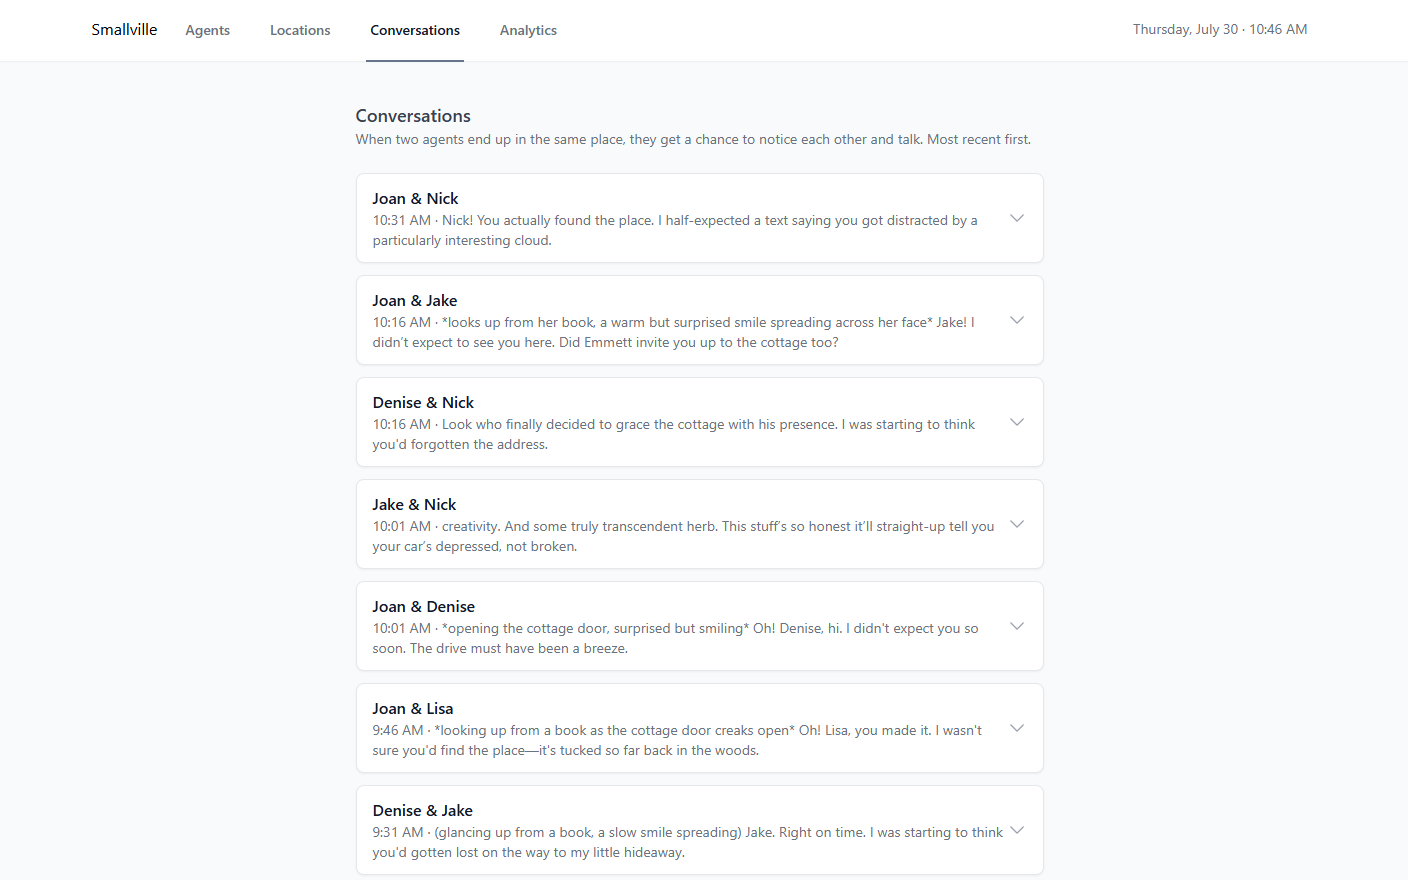
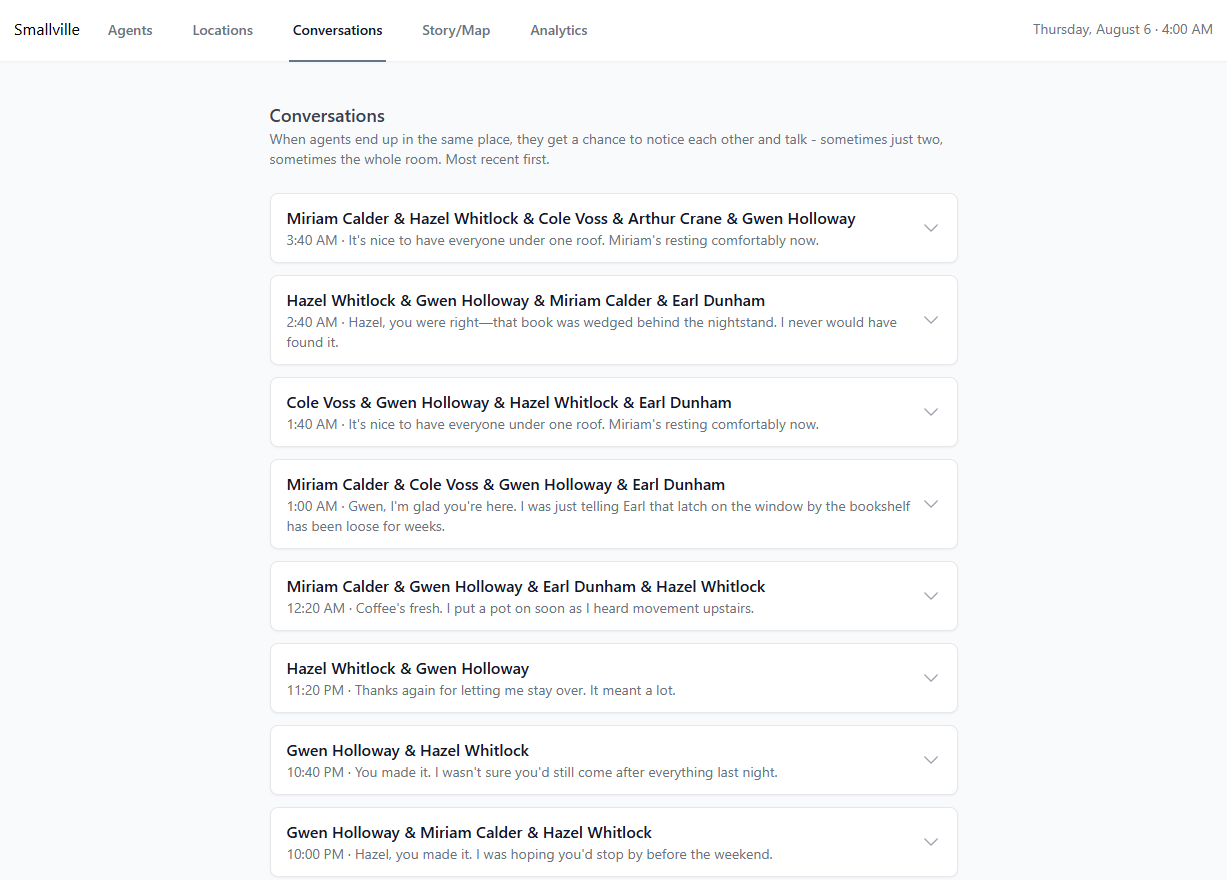
Rewrite README for the hardening-pass changes and refresh screenshots
Documents the knowledge model, concerns system, character creation
dial, relationship-driven conversations, persistence, cost visibility,
and the fixed 20-minute timestep. Replaces the two-year-old dashboard
screenshot and adds the town map, locations, and analytics panels.

diff --git a/README.md b/README.md
@@ -4,45 +4,143 @@
 
 Generative agents are virtual characters that store memories and dynamically react to their environment. Using an LLM, agents observe their surroundings, form and recall memories, make plans, and react to changes in the world around them — instead of following hand-written dialogue trees and schedules.
 
-This is a fork of [nickm980/smallville](https://github.com/nickm980/smallville), a Java implementation of the technique from the paper [_Generative Agents: Interactive Simulacra of Human Behavior_](https://arxiv.org/pdf/2304.03442.pdf). This fork keeps the original simulation engine but changes the LLM backend and replaces the tooling around it with a full interactive dashboard, so you can actually watch and steer a town of agents instead of only driving them through the HTTP API.
+This project has three layers of history worth knowing. It started as the Stanford/Google paper [_Generative Agents: Interactive Simulacra of Human Behavior_](https://arxiv.org/pdf/2304.03442.pdf) (2023) — agents with a memory stream, planning, and reflection, scored on recency, importance, and relevance. [nickm980/smallville](https://github.com/nickm980/smallville) is a faithful Java implementation of that architecture, built as a library other games could drive over HTTP. This fork retargeted it at DeepSeek and grew a full Next.js dashboard around it — a town map, per-agent diaries, a conversation feed, location images, and a generated "Story So Far" — so you can actually watch and steer a town of agents instead of only driving them through the API. Then a sustained pass went back through the inherited engine and found that several of its load-bearing pieces didn't actually work — not visible from reading the code, only from watching agents — and repaired the simulation's underlying model of what an agent knows, wants, and has actually experienced. See [How agents think](#how-agents-think).
 
 ## Screenshots
 
-| Agents dashboard | Conversations |
+| Agents | Town map |
 | --- | --- |
-| ![Dashboard showing a list of agents with their location, current activity, and emoji, plus simulation controls](docs/screenshots/dashboard.png) | ![Conversations feed showing grouped, timestamped conversations between agents](docs/screenshots/conversations.png) |
+| ![Agents dashboard showing a list of agents with their location, current activity, and emoji, plus simulation controls](docs/screenshots/agents.png) | ![Town map showing every location with a photo and who's currently there](docs/screenshots/town-map.png) |
+
+| Conversations | Locations & objects |
+| --- | --- |
+| ![Conversations feed showing grouped, timestamped conversations between agents, some with more than two participants](docs/screenshots/conversations.png) | ![Locations and objects page for editing the simulation world](docs/screenshots/locations.png) |
+
+| Analytics |
+| --- |
+| ![Analytics panel showing API usage, cost, and per-prompt breakdown](docs/screenshots/analytics.png) |
 
 ## What's different in this fork
 
-**Runs on DeepSeek, not OpenAI.** The server talks to any OpenAI-compatible chat completions endpoint — this fork points it at DeepSeek (`deepseek-v4-pro`) by default, which is cheaper and doesn't require an OpenAI key. Swapping to any other compatible provider (OpenAI, a local model server, etc.) is a two-line change in `config.yaml`.
+**Runs on DeepSeek, not OpenAI**, with reasoning ("thinking") disabled by default — the configured model is a reasoning model, and almost nothing here benefits from the deliberation, which bills as output tokens. Turning it off was the single largest responsiveness improvement of the whole project. The server talks to any OpenAI-compatible chat completions endpoint, so swapping providers is a config change; see [Configuration](#configuration).
 
 **A real dashboard**, built with Next.js, replacing the old static/embedded UI:
 - Create, edit, and delete agents and locations, including nested sub-locations (e.g. `Cottage: Kitchen`)
-- **AI-generated personalities** — click a button when creating an agent and it invents a name plus a set of in-depth characteristics, checking for name collisions with existing agents
-- **Play/pause and speed controls** — start or stop the simulation loop and adjust how many seconds of real time pass between ticks, decoupled from how much simulated time each tick advances (see [Ticks, intervals, and timesteps](#ticks-intervals-and-timesteps) below)
+- **AI-generated personalities**, built from six required traits and an alignment dial (see [Character creation](#character-creation))
+- **A town map** — a visual layout of every location, with a photo and who's currently there, instead of only reading names off a list
+- **Play/pause and speed controls** for the simulation loop (see [Ticks, intervals, and the timestep](#ticks-intervals-and-the-timestep))
 - **Per-agent diaries** — a chronological view of everything an agent has observed, planned, and reflected on
-- **A global conversation feed** — grouped by conversation, paginated, with timestamps in simulated time
-- A live simulated clock (with real weekday/date, not just a time-of-day) visible from every page
+- **A global conversation feed** — grouped by conversation, with more than two participants when the room calls for it
+- **Location images** — attach a photo to any location and see it on the map
+- **A generated "Story So Far"** narrative (see [The story feature](#the-story-feature))
+- **An analytics panel** — token usage and estimated cost, broken down per prompt, with cache hit rate (see [Cost visibility](#cost-visibility))
+- A live simulated clock (real weekday/date, not just a time-of-day) visible from every page
 
-**Proximity-based conversations.** In the original engine, two agents only talk if you explicitly script it. This fork adds a lightweight system where agents who end up in the same location get a chance to notice each other and start a conversation on their own, with a cooldown so the same pair doesn't talk every single tick.
+**Conversations are relationship-driven and knowledge-gated, not a timer.** In the original engine, two agents only talk if you script it; a fixed cooldown was added early in this fork's life and later replaced. Now, who talks to whom follows an actual relationship model, and what they can say is bounded by what they've actually witnessed about each other — see [Relationships](#relationships) and [How agents think](#how-agents-think).
 
-**A round of real bug fixes** found while building the above, all upstreamed into this fork:
-- Chat requests were being encoded with the platform's default charset instead of UTF-8, corrupting non-ASCII output
-- A crash when the model returned a compound location name (e.g. `"Cottage: Kitchen"`) that didn't exactly match a location
-- A null-pointer crash when the model omitted an activity, plus per-agent fault isolation so one bad LLM response no longer kills the tick for every other agent
-- Several new API endpoints (and two pre-existing ones) silently failed because the routing library needs a compiler flag to resolve `@Param`-annotated arguments, which isn't set — fixed by reading path params directly
-- Agents could end up "talking to themselves" when an observation string happened to contain their own name
-- A reaction-triggering loop that scaled O(n²) with agent count and could stall ticking for minutes with more than a handful of agents in one place
-- Agents independently narrating schedules that contradicted each other (e.g. claiming to be having dinner with someone who was, according to the simulation's own ground truth, somewhere else) — the planning prompt now reconciles against the ground-truth state already available to it
-- Memory/diary entries were sorted by their already-formatted `"h:mm a"` time string instead of the underlying timestamp, breaking ordering across the AM/PM boundary
+## How agents think
 
-## Ticks, intervals, and timesteps
+Early on, the simulation had no way to tell apart what an agent *intends*, what actually *happened*, and what they were merely *told*. All three were strings in the same memory stream, in the same voice, fed back into prompts interchangeably. Nearly every strange thing agents did traced back to that one gap:
 
-Two independent settings control pacing:
-- **Interval** — how many real-world seconds pass between ticks. Controlled from the dashboard's Simulation panel.
-- **Timestep** — how many simulated minutes each tick advances the in-world clock (`POST /timestep`). Independent of the interval.
+- A plan to *"join in the conversation and share a joke"* became a first-hand memory of a conversation that never happened — intent laundered into event.
+- Each agent's own activity text was broadcast to every other agent and treated as ground truth, so one agent's invention became everybody's fact.
+- Conversation prompts handed out every participant's full characteristics, so agents knew each other's secrets on sight — and when told something a character shouldn't know, the model invented a shared past to justify it.
 
-Running with a long interval (e.g. 180s) and a modest timestep (e.g. 15 minutes) is a good combination for a "start it, walk away, come back later" overnight run — enough ticks accumulate to produce an interesting story without burning through API calls too quickly.
+The fix was the same move each time: record where a piece of information actually came from. A bare `"No, what happened?"` in a memory stream became `"Maria said: No, what happened?"`. Whether two agents are co-located now comes from the world's own state, not a model's prose. Conversations carry only what each pair has actually witnessed or been told about each other.
+
+Worth being explicit about: earlier attempts at this — prompt instructions like *"do not invent conversations that didn't happen"* — were treating a symptom. The diary those prompts read from was already full of invented conversations; no instruction at the last stage fixes corruption that entered several steps earlier.
+
+Nobody starts knowing anybody, and there's no way to look a secret up. In one run, two agents independently noticed a third doing perimeter sweeps and started theorizing about him — one citing evidence he'd actually witnessed — without either of them being told his actual secret. That's the kind of behavior this architecture exists to produce, and it wasn't happening before this pass.
+
+This guarantee is enforced at the prompt level, not a structural one — the model still writes every character's dialogue in one call and technically has access to each speaker's full description while doing it. A structural fix would generate dialogue turn-by-turn from each speaker's own point of view, at roughly ten times the LLM calls; not done here. See [Known limitations](#known-limitations).
+
+## Relationships
+
+Conversation triggering used to be a plain clock — any two co-located agents talked every 60 simulated minutes, forever. In a town where people share a handful of locations, that's a metronome, not a social model.
+
+There's now a relationship graph tracking, per pair of agents, how often they've spoken, how warmly, and when. After each conversation, one small model call judges its tone (warm, neutral, or tense). Whether two co-located agents strike up a conversation depends on how much they'd actually want to: strangers almost always introduce themselves, and beyond that, likelihood rises with novelty (how long it's been) and affinity (how warmly their past conversations have gone). Sleeping agents don't talk.
+
+Pass `--seed <n>` on startup to replay a run with the same random decisions.
+
+## Concerns
+
+Roughly twice a simulated day, something happens to somebody that they didn't choose and the simulation didn't otherwise generate: a parent calls, a letter arrives, a card declines. Nothing about it is simulated — a fact just lands, tagged with a source (family / friend / institution / chance), a valence, a demand on the agent's attention, and a privacy level.
+
+Privacy is the interesting part: a concern somebody would rather keep quiet puts them in direct conflict with the same system that spreads what agents know about each other (see [How agents think](#how-agents-think)) — now there's something to actually keep or leak, not just gossip circulating for its own sake.
+
+Concerns expire rather than resolve. That's deliberate — there's no economy or consequence model here, and building one wasn't the point of this pass (see [Known limitations](#known-limitations)). Tune frequency and tone with `eventsPerSimulatedDay` and the three `*EventWeight` keys in `config.yaml`.
+
+## Character creation
+
+Generating a character — one click in the dashboard, or `POST /agents/generate` — asks the model for six required things: a daily anchor, a want, something they visibly do, a flaw, someone off-screen in their life, and a tell. All six are required; the generator won't return a character missing one.
+
+An `alignment` value from 0–100 (`?alignment=` on the endpoint, a dial in the dashboard) shifts what the generated character wants and who ends up paying for it — low values skew toward characters whose wants come at other people's expense, high values the opposite. Defaults to 50.
+
+## Plans
+
+Plans changed from schedules into something closer to intentions. A daily plan is 4–6 goals, each with a time of day and a location, not a timestamped itinerary; an hourly plan is one or two intentions, not several. Both are written to refuse outcomes, reactions, and joint action — a plan can say an agent means to be somewhere, not that they will laugh at a joke once they get there. What actually happens is decided later, in the moment.
+
+Plans expire instead of lasting forever: short-term plans last a simulated hour, daily goals expire at the date rollover, and staleness is judged from when a plan was *written*, not the time it names (a plan written at 11:45pm for 12:15am names a time that's nearly a full day old by evening). Daily goals are marked addressed once the agent actually visits their location.
+
+## The story feature
+
+The dashboard can generate a running narrative ("Story So Far") summarizing what's happened in the simulation, via `GET /story` and `POST /story/generate`.
+
+The story is stored as a list of passages plus a rolling summary, rather than one ever-growing string. Every passage is kept, and the dashboard still renders the full narrative — but the *prompt* sent to the model only includes the six most recent passages verbatim plus a summary of everything before that, so generating the next passage doesn't get more expensive, or eventually stop fitting in context, the longer the story gets.
+
+## Persistence
+
+World state survives a restart. `world-data/world.json` holds agents, full memory streams, locations, conversations, relationships, concerns, and the simulated clock. It autosaves every 2 minutes and on shutdown, and loads automatically at startup. A clean shutdown runs the save; a force-kill can lose up to two minutes.
+
+Restoring is deliberately forgiving: an agent whose location no longer exists is placed elsewhere rather than dropped, unknown/older memory types are skipped rather than failing the whole load, and writes are atomic so a crash mid-save can't corrupt the file.
+
+Story data (`story-data/`) and uploaded location images (`location-images/`) already persisted across restarts independently of this.
+
+## Cost visibility
+
+The configured model is a reasoning model, and reasoning tokens bill as output — a six-line daily plan was once observed carrying several hundred tokens of deliberation nobody asked for. `thinking` is disabled by default now (see [Configuration](#configuration)). Every LLM call site is labelled, and token usage is aggregated per prompt and exposed at `GET /usage` (reset with `POST /usage/reset`), alongside a cost estimate and the cache hit rate.
+
+Classification-style calls — ranking memories, choosing an activity, judging conversation tone — can be routed to a separate, cheaper `cheapModel` instead of the main model.
+
+## Ticks, intervals, and the timestep
+
+Two things control pacing, but only one is really meant to be tuned:
+
+- **Interval** — how many real-world seconds pass between ticks. Controlled from the dashboard's Simulation panel; this is the dial to turn for a "start it, walk away, come back later" run.
+- **Timestep** — how many simulated minutes each tick advances the clock. Fixed at 20 minutes by design. Several parts of the simulation (conversation cooldowns, plan freshness) are tuned around that number, and world persistence deliberately does not restore a saved timestep for the same reason — a `POST /timestep` endpoint still exists for experimentation, but changing it is unsupported territory.
+
+## Bug fixes
+
+A sample of what got found and fixed along the way, grouped by theme. Several more are described in context above rather than repeated here — see [How agents think](#how-agents-think) and [Plans](#plans) in particular.
+
+*Memory and retrieval*
+- Memory retrieval was effectively relevance-only: candidates were collected into a map keyed by score (so identical scores destroyed each other), the recency formula produced `NaN`/infinite values that tripped a fallback discarding everything but relevance, importance swamped both other components, and relevance could go unboundedly negative. Retrieval is now a proper weighted, bounded (0–1 each) blend of recency, importance, and relevance — see the retrieval keys in [Configuration](#configuration).
+- `Memory`'s constructor stripped every hyphen from every memory ever formed, so agents remembered being "wellknown" and working the "3:004:00" shift.
+- Reflection was firing on the majority of agent updates against a design intent of a handful per day — the cutoff had been calibrated against the broken recency formula above and never adjusted once it was fixed.
+
+*Persistence and world state*
+- The server kept all world state in memory only — restarting lost every agent, location, and memory stream. See [Persistence](#persistence).
+- The dashboard and backend ticked from different threads over plain, unsynchronized collections. World mutations are now locked per-agent so a reset doesn't block for the minutes a full tick can take; reads stay unlocked over concurrent collections.
+- Plan times were stamped with the wall-clock date while everything else runs on the simulated clock, which can cross midnight within minutes of real time.
+- `getConversationsAfter` ignored its argument and returned the entire history regardless of the requested cutoff.
+- Adding an agent or editing a personality used to wait out an in-flight tick — 30-45 seconds — for work that's a map insert. Those control paths no longer take the simulation lock.
+
+*Conversations*
+- Asked for `Name: line` dialogue, the model would sometimes write a narrative scene instead, which parsed to zero lines and got the whole conversation discarded as empty. Conversation prompts now use JSON mode, are told the actual location (a Walmart had once been rendered as a church basement), and an empty result retries once before being skipped instead of thrown away.
+- `Mustache` HTML-escaped every substituted value, so apostrophes in agent-generated text arrived in prompts and output as `&#39;`.
+
+*Correctness / crashes*
+- Chat requests were encoded with the platform's default charset instead of UTF-8, corrupting non-ASCII output.
+- A crash when the model returned a compound location name (e.g. `"Cottage: Kitchen"`) that didn't exactly match a location.
+- A null-pointer crash when the model omitted an activity, plus per-agent fault isolation so one bad LLM response no longer kills the tick for every other agent.
+- Several API endpoints silently failed because the routing library needs a compiler flag to resolve `@Param`-annotated arguments, which isn't set — fixed by reading path params directly.
+- Agents could end up "talking to themselves" when an observation string happened to contain their own name.
+- A reaction-triggering loop scaled O(n²) with agent count and could stall ticking for minutes with more than a handful of agents in one place.
+- Memory/diary entries were sorted by their already-formatted `"h:mm a"` time string instead of the underlying timestamp, breaking ordering across the AM/PM boundary.
+- `getTokenEmbeddings` POSTed to OpenAI's endpoint using the DeepSeek key. Deleted.
+- Pausing the simulation interrupted the in-flight request, and the retry loop treated the cancellation itself as a failure, burning the entire retry budget on a pause.
+
+**How these were found:** almost entirely by reading agent diaries and comparing them against what the simulation had actually recorded — `/conversations`, `/agents/{name}/diary` — rather than by reading the code. Four agents whose diaries described a conversation that had silently failed to parse; three agents recording the exact same activity text word for word because they'd been handed each other's; an agent unlacing the same shoes for two simulated hours because the activity prompt only ever knew one step of its own history. None of it throws an exception. If you're extending this, the method is: run it, read a day of diaries, and check every remembered interaction against the actual record.
 
 ## Getting started
 
@@ -60,9 +158,9 @@ The key is only ever passed in as a command-line argument below — it isn't rea
 ```
 cd smallville
 mvn -DskipTests package
-java -jar target/smallville-1.3.0-shaded.jar --api-key sk-your-key-here --port 8080
+java -jar target/smallville-1.3.0.jar --api-key sk-your-key-here --port 8080
 ```
-The server starts on port 8080 (override with `--port`).
+The server starts on port 8080 (override with `--port`). Add `--seed <n>` to replay a previous run's random decisions. World state, if any exists in `world-data/`, loads automatically on startup and autosaves from then on.
 
 ### 3. Run the dashboard
 ```
@@ -70,21 +168,42 @@ cd dashboard
 npm install
 npm run dev
 ```
-Open http://localhost:3000. The dashboard talks to the server on `localhost:8080` — no extra configuration needed.
+Open http://localhost:3000. By default the dashboard talks to the server on `localhost:8080` — no extra configuration needed. To point it at a server running elsewhere, copy `dashboard/.env.local.example` to `dashboard/.env.local` and set `NEXT_PUBLIC_API_URL`.
 
 ### 4. Create your town
 Use the dashboard to add locations and agents (or generate a personality with one click), then hit Start in the Simulation panel.
 
-> **Note on persistence:** the server keeps all world state in memory only — there's currently no database backing it, so restarting the server loses agents, locations, and memory streams. If you need to survive a restart, save your agents'/locations' definitions somewhere yourself before stopping the server, and recreate them via the API afterward.
-
 ## Configuration
 
-`smallville/src/main/resources/config.yaml` controls the LLM backend:
+`smallville/src/main/resources/config.yaml` controls the LLM backend and simulation tuning; every key is commented in the file itself. A `config.yaml` placed in the working directory you run the jar from overrides the copy baked into the jar — this is how tuning changes between runs without rebuilding, and that working-directory file is gitignored.
+
 ```yaml
 apiPath: https://api.deepseek.com/chat/completions
 model: deepseek-v4-pro
+cheapModel: deepseek-v4-flash   # classification-style calls; blank sends everything to `model`
+thinking: disabled              # reasoning tokens bill as output; see Cost visibility
 ```
-Point `apiPath` and `model` at any other OpenAI-compatible chat completions endpoint (OpenAI itself, a local model server, etc.) to use a different provider. `prompts.yaml` in the same directory controls the prompt templates sent for each part of the agent update pipeline (plans, reflections, current activity, and so on).
+Point `apiPath` and `model` at any other OpenAI-compatible chat completions endpoint (OpenAI itself, a local model server, etc.) to use a different provider.
+
+Also configurable:
+- Three `*PricePerMillion` keys used to estimate cost on `/usage`.
+- Memory retrieval tuning: `recencyHalfLifeHours`, `retrievalCount`, and `recencyWeight` / `importanceWeight` / `relevanceWeight` (see [Bug fixes](#bug-fixes)).
+- `reflectionCutoff` — how much weight must build up since an agent last reflected before they do again.
+- The [Concerns](#concerns) system: `eventsPerSimulatedDay` and `badEventWeight` / `ambiguousEventWeight` / `goodEventWeight`.
+
+`prompts.yaml` in the same directory controls the prompt templates sent for each part of the agent update pipeline.
+
+## Known limitations
+
+Be honest about these — the work above is real, but none of it is finished.
+
+- **Memory-ranking JSON parses fail regularly.** Importance never gets set on the affected memories, which quietly weakens retrieval. Same JSON-mode treatment used elsewhere in the pipeline would fix it; this is the cheapest remaining win.
+- **Transit isn't modeled.** Locations snap instantly, so agents sometimes narrate a journey the simulation doesn't represent — "driving back toward the cottage" while already standing in it.
+- **Concerns expire, they don't resolve** (see [Concerns](#concerns)) — deliberately, but it means nobody can actually fix anything, only wait it out.
+- **The knowledge guarantee is prompt-level, not structural** (see [How agents think](#how-agents-think)) — the model still sees every character's full description when writing a scene's dialogue in one call.
+- **Nothing is at stake.** Relationships accumulate; nothing else does. There's no needs model, no consequence, no way for a situation to actually turn — concerns are a first step toward this, but only a first step.
+- Plans generated late in the simulated evening for an early-morning activity still date to the current simulated day rather than rolling over to the next one.
+- Sleep detection reads the agent's activity text for words like "sleep" or "in bed" — imperfect, but better than agents chatting through the night.
 
 ## Building your own game on top of it
 
